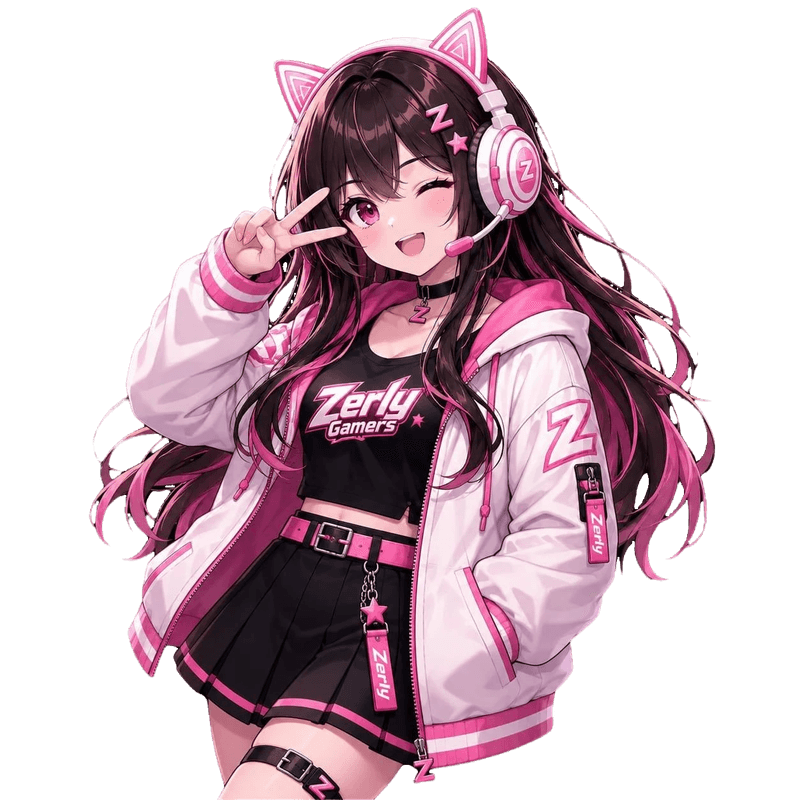
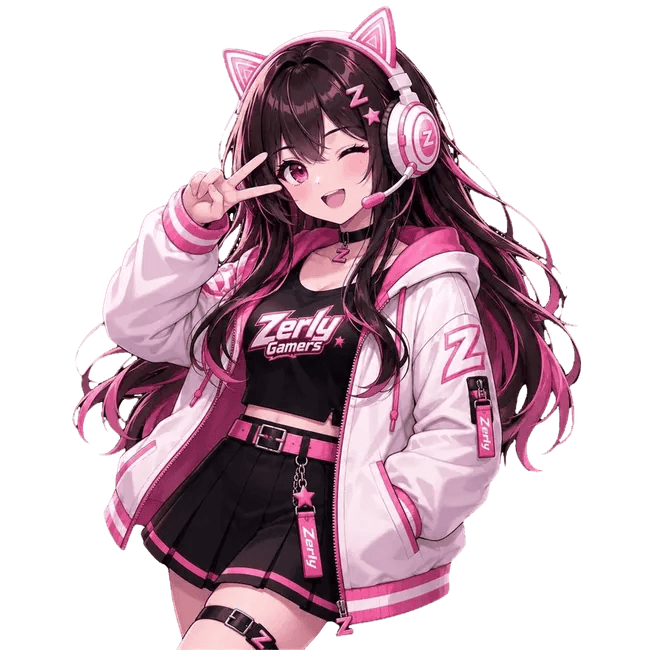
fix(a11y): enhance color contrast, landmarks, and aria attributes for WCAG AA compliance

diff --git a/components/HeroSection.tsx b/components/HeroSection.tsx
@@ -66,23 +66,23 @@ export const HeroSection: React.FC<HeroSectionProps> = ({
         <div className="lg:col-span-4 flex flex-col items-start gap-2.5 text-left z-20 order-1">
           {/* Badge Top Headline (Promo vs #1 Top Up) */}
           {isPromoActive ? (
-            <div className="inline-flex items-center gap-1.5 px-3 py-1 rounded-full bg-gradient-to-r from-pink-100 via-rose-100 to-amber-100 border border-pink-300/90 text-[#D81467] text-[10.5px] sm:text-[11px] font-black tracking-wider uppercase shadow-xs">
+            <div className="inline-flex items-center gap-1.5 px-3 py-1 rounded-full bg-gradient-to-r from-pink-100 via-rose-100 to-amber-100 border border-pink-300/90 text-[#BE185D] text-[10.5px] sm:text-[11px] font-black tracking-wider uppercase shadow-xs">
               <Flame aria-hidden="true" className="w-3.5 h-3.5 text-rose-500 fill-rose-500 animate-pulse" />
               <span>PROMO SPESIAL HARI INI</span>
             </div>
           ) : (
-            <div className="inline-flex items-center gap-1.5 px-3 py-1 rounded-full bg-pink-100/95 border border-pink-300/90 text-[#D81467] text-[10.5px] sm:text-[11px] font-extrabold tracking-wider uppercase shadow-xs">
-              <Sparkles aria-hidden="true" className="w-3.5 h-3.5 text-[#D81467]" />
+            <div className="inline-flex items-center gap-1.5 px-3 py-1 rounded-full bg-pink-100/95 border border-pink-300/90 text-[#BE185D] text-[10.5px] sm:text-[11px] font-extrabold tracking-wider uppercase shadow-xs">
+              <Sparkles aria-hidden="true" className="w-3.5 h-3.5 text-[#BE185D]" />
               <span>#1 TOP UP GAME TERPERCAYA</span>
             </div>
           )}
 
           {/* Main Typography Header */}
           <h1 className="text-2xl sm:text-3xl lg:text-[36px] font-black leading-[1.1] sm:leading-[1.08] tracking-tight uppercase">
-            <span className="block text-[#FF1D7E] drop-shadow-[0_2px_4px_rgba(255,29,126,0.18)]">
+            <span className="block text-[#BE185D] drop-shadow-[0_2px_4px_rgba(255,29,126,0.18)]">
               TOP UP GAME
             </span>
-            <span className="block text-[#FF2E88] drop-shadow-[0_2px_4px_rgba(255,46,136,0.18)]">
+            <span className="block text-[#D81467] drop-shadow-[0_2px_4px_rgba(255,46,136,0.18)]">
               AMAN, CEPAT &amp; TERPERCAYA
             </span>
           </h1>
@@ -91,8 +91,8 @@ export const HeroSection: React.FC<HeroSectionProps> = ({
           {isPromoActive && promoData ? (
             <div className="w-full max-w-sm p-3 rounded-2xl bg-gradient-to-r from-pink-50/95 via-rose-50/85 to-amber-50/70 border border-pink-200/90 shadow-xs space-y-1 animate-in fade-in">
               <div className="flex items-start gap-1.5">
-                <div className="w-5 h-5 rounded-md bg-rose-100 text-[#FF2E88] flex items-center justify-center shrink-0 mt-0.5 shadow-2xs">
-                  <Zap aria-hidden="true" className="w-3 h-3 fill-[#FF2E88]" />
+                <div className="w-5 h-5 rounded-md bg-rose-100 text-[#BE185D] flex items-center justify-center shrink-0 mt-0.5 shadow-2xs">
+                  <Zap aria-hidden="true" className="w-3 h-3 fill-[#BE185D]" />
                 </div>
                 <p className="text-[11.5px] sm:text-xs text-gray-800 font-medium leading-snug">
                   Dapatkan promo spesial{" "}
@@ -100,7 +100,7 @@ export const HeroSection: React.FC<HeroSectionProps> = ({
                     {promoData.robuxAmount.toLocaleString("id-ID")} Robux
                   </strong>{" "}
                   cuma{" "}
-                  <span className="font-black text-[#D81467] text-[13px]">
+                  <span className="font-black text-[#BE185D] text-[13px]">
                     Rp {promoData.discountPrice.toLocaleString("id-ID")}
                   </span>{" "}
                   {promoData.originalPrice && promoData.originalPrice > promoData.discountPrice && (
@@ -129,7 +129,7 @@ export const HeroSection: React.FC<HeroSectionProps> = ({
           ) : (
             <p className="text-xs sm:text-[13px] text-gray-700 font-medium max-w-sm leading-relaxed">
               Top up game favoritmu dengan harga terbaik, proses instan, dan 100% aman di{" "}
-              <span className="font-bold text-[#D81467]">Zerly Gamers</span>!
+              <span className="font-bold text-[#BE185D]">Zerly Gamers</span>!
             </p>
           )}
 
@@ -151,7 +151,7 @@ export const HeroSection: React.FC<HeroSectionProps> = ({
             <button
               type="button"
               onClick={onOpenAllPackages}
-              className="flex-1 sm:flex-initial inline-flex items-center justify-center gap-1.5 bg-white/95 hover:bg-pink-50/80 border-2 border-pink-300 text-[#D81467] font-extrabold text-xs px-4 py-2.5 rounded-full shadow-xs hover:scale-[1.02] active:scale-95 transition-all uppercase tracking-wider cursor-pointer"
+              className="flex-1 sm:flex-initial inline-flex items-center justify-center gap-1.5 bg-white/95 hover:bg-pink-50/80 border-2 border-pink-300 text-[#BE185D] font-extrabold text-xs px-4 py-2.5 rounded-full shadow-xs hover:scale-[1.02] active:scale-95 transition-all uppercase tracking-wider cursor-pointer"
             >
               <span>LIHAT SEMUA HARGA</span>
               <ChevronRight aria-hidden="true" className="w-4 h-4 stroke-[3]" />
@@ -262,7 +262,7 @@ export const HeroSection: React.FC<HeroSectionProps> = ({
             {/* Mascot Character Image */}
             <div className="absolute z-10 w-full flex items-center justify-center lg:justify-end pr-0 sm:pr-2 lg:pr-4 animate-float-slow -top-3 sm:-top-8 lg:-top-14 translate-y-3 sm:translate-y-8 lg:translate-y-14 lg:translate-x-12">
               <Image
-                src="/karakter.png"
+                src="/karakter.webp"
                 alt="Zerly Gamers Mascot Character"
                 width={540}
                 height={540}
@@ -275,12 +275,11 @@ export const HeroSection: React.FC<HeroSectionProps> = ({
             {/* Big Shield Logo Emblem */}
             <div className="absolute bottom-2 sm:bottom-4 left-3 sm:-left-4 lg:-left-16 z-20 pointer-events-none">
               <Image
-                src="/logo.png"
+                src="/logo.webp"
                 alt="Zerly Gamers Shield Emblem"
                 width={280}
                 height={110}
                 sizes="(max-width: 640px) 150px, (max-width: 1024px) 200px, 280px"
-                priority
                 className="object-contain drop-shadow-[0_12px_24px_rgba(255,42,133,0.4)] w-[150px] sm:w-[200px] lg:w-[280px] h-auto"
               />
             </div>

diff --git a/components/Navbar.tsx b/components/Navbar.tsx
@@ -21,7 +21,7 @@ export const Navbar: React.FC<NavbarProps> = ({
 }) => {
   const [mobileMenuOpen, setMobileMenuOpen] = useState(false);
   const [storeName, setStoreName] = useState(initialStoreName || "Zerly Gamers");
-  const [logoPath, setLogoPath] = useState(initialLogoPath || "/logo.png");
+  const [logoPath, setLogoPath] = useState(initialLogoPath || "/logo.webp");
   const [whatsappNumber, setWhatsappNumber] = useState(initialWaNumber || "6285624595886");
 
   useEffect(() => {
@@ -44,7 +44,7 @@ export const Navbar: React.FC<NavbarProps> = ({
         
         {/* 1. Left: Brand Logo & Dynamic Store Name from API */}
         <div className="flex items-center">
-          <a href="#" aria-label={`${storeName} Home`} className="flex items-center gap-2 sm:gap-2.5 transition-transform active:scale-95 group">
+          <a href="/" aria-label={`${storeName} - Beranda`} className="flex items-center gap-2 sm:gap-2.5 transition-transform active:scale-95 group">
             <Image
               src={logoPath}
               alt={storeName}
@@ -56,10 +56,10 @@ export const Navbar: React.FC<NavbarProps> = ({
             />
             {/* Dynamic Store Name Display */}
             <div className="flex flex-col text-left">
-              <span className="text-xs sm:text-sm lg:text-base font-black text-[#FF1D7E] leading-none tracking-wider uppercase">
+              <span className="text-xs sm:text-sm lg:text-base font-black text-[#BE185D] leading-none tracking-wider uppercase">
                 {mainWord}
               </span>
-              <span className="text-[8.5px] sm:text-[9.5px] font-black text-gray-600 tracking-widest leading-none mt-0.5 uppercase">
+              <span className="text-[8.5px] sm:text-[9.5px] font-black text-gray-700 tracking-widest leading-none mt-0.5 uppercase">
                 {subWord}
               </span>
             </div>
@@ -192,49 +192,51 @@ export const Navbar: React.FC<NavbarProps> = ({
           <a
             href="#beranda"
             onClick={() => setMobileMenuOpen(false)}
-            className="flex items-center gap-2.5 px-3 py-2.5 rounded-xl bg-pink-50 text-[#FF2E88] font-bold text-xs"
+            className="flex items-center gap-2.5 px-3 py-2.5 rounded-xl bg-pink-50 text-[#BE185D] font-bold text-xs"
           >
-            <HomeIcon className="w-4 h-4 text-[#FF2E88]" />
+            <HomeIcon aria-hidden="true" className="w-4 h-4 text-[#BE185D]" />
             <span>BERANDA</span>
           </a>
 
           <a
             href="#topup"
             onClick={() => setMobileMenuOpen(false)}
-            className="flex items-center gap-2.5 px-3 py-2.5 rounded-xl text-gray-800 hover:bg-pink-50 hover:text-[#FF2E88] font-bold text-xs"
+            className="flex items-center gap-2.5 px-3 py-2.5 rounded-xl text-gray-800 hover:bg-pink-50 hover:text-[#BE185D] font-bold text-xs"
           >
-            <Gamepad2 className="w-4 h-4 text-pink-500" />
+            <Gamepad2 aria-hidden="true" className="w-4 h-4 text-[#BE185D]" />
             <span>TOP UP ROBUX</span>
           </a>
 
           <button
+            type="button"
             onClick={() => {
               setMobileMenuOpen(false);
               onOpenCaraOrder();
             }}
-            className="flex items-center gap-2.5 px-3 py-2.5 rounded-xl text-gray-800 hover:bg-pink-50 hover:text-[#FF2E88] font-bold text-xs text-left cursor-pointer"
+            className="flex items-center gap-2.5 px-3 py-2.5 rounded-xl text-gray-800 hover:bg-pink-50 hover:text-[#BE185D] font-bold text-xs text-left cursor-pointer"
           >
-            <BookOpen className="w-4 h-4 text-pink-500" />
+            <BookOpen aria-hidden="true" className="w-4 h-4 text-[#BE185D]" />
             <span>CARA ORDER</span>
           </button>
 
           <a
             href="#testimoni"
             onClick={() => setMobileMenuOpen(false)}
-            className="flex items-center gap-2.5 px-3 py-2.5 rounded-xl text-gray-800 hover:bg-pink-50 hover:text-[#FF2E88] font-bold text-xs"
+            className="flex items-center gap-2.5 px-3 py-2.5 rounded-xl text-gray-800 hover:bg-pink-50 hover:text-[#BE185D] font-bold text-xs"
           >
-            <MessageSquare className="w-4 h-4 text-pink-500" />
+            <MessageSquare aria-hidden="true" className="w-4 h-4 text-[#BE185D]" />
             <span>TESTIMONI</span>
           </a>
 
           <button
+            type="button"
             onClick={() => {
               setMobileMenuOpen(false);
               onOpenFaq();
             }}
-            className="flex items-center gap-2.5 px-3 py-2.5 rounded-xl text-gray-800 hover:bg-pink-50 hover:text-[#FF2E88] font-bold text-xs text-left cursor-pointer"
+            className="flex items-center gap-2.5 px-3 py-2.5 rounded-xl text-gray-800 hover:bg-pink-50 hover:text-[#BE185D] font-bold text-xs text-left cursor-pointer"
           >
-            <HelpCircle className="w-4 h-4 text-pink-500" />
+            <HelpCircle aria-hidden="true" className="w-4 h-4 text-[#BE185D]" />
             <span>FAQ</span>
           </button>
 
@@ -243,9 +245,9 @@ export const Navbar: React.FC<NavbarProps> = ({
             target="_blank"
             rel="noopener noreferrer"
             onClick={() => setMobileMenuOpen(false)}
-            className="flex items-center gap-2.5 px-3 py-2.5 rounded-xl text-gray-800 hover:bg-pink-50 hover:text-[#FF2E88] font-bold text-xs"
+            className="flex items-center gap-2.5 px-3 py-2.5 rounded-xl text-gray-800 hover:bg-pink-50 hover:text-[#BE185D] font-bold text-xs"
           >
-            <PhoneCall className="w-4 h-4 text-emerald-500" />
+            <PhoneCall aria-hidden="true" className="w-4 h-4 text-emerald-600" />
             <span>KONTAK WHATSAPP</span>
           </a>
         </div>

diff --git a/components/TopUpRobux.tsx b/components/TopUpRobux.tsx
@@ -36,10 +36,10 @@ export const TopUpRobux: React.FC<TopUpRobuxProps> = ({
     <div className="lg:col-span-8 bg-white/95 backdrop-blur-md rounded-3xl border-2 border-pink-200/90 p-4 sm:p-5 shadow-sm flex flex-col gap-4">
       {/* 1. Header with Hexagon Robux Gaming Icon */}
       <div className="flex items-center gap-2.5">
-        <div className="w-7 h-7 rounded-xl bg-pink-100 text-[#FF2E88] border border-pink-300 flex items-center justify-center shadow-xs">
+        <div className="w-7 h-7 rounded-xl bg-pink-100 text-[#BE185D] border border-pink-300 flex items-center justify-center shadow-xs">
           <svg
             aria-hidden="true"
-            className="w-4 h-4 text-[#FF2E88] stroke-[2.5]"
+            className="w-4 h-4 text-[#BE185D] stroke-[2.5]"
             viewBox="0 0 24 24"
             fill="none"
             stroke="currentColor"
@@ -50,7 +50,7 @@ export const TopUpRobux: React.FC<TopUpRobuxProps> = ({
             <circle cx="12" cy="12" r="3" />
           </svg>
         </div>
-        <h2 className="text-base sm:text-lg font-black uppercase tracking-wide text-[#FF1D7E]">
+        <h2 className="text-base sm:text-lg font-black uppercase tracking-wide text-[#BE185D]">
           TOP UP ROBUX
         </h2>
       </div>
@@ -92,7 +92,7 @@ export const TopUpRobux: React.FC<TopUpRobuxProps> = ({
               <div className="text-center pt-1">
                 <span
                   className={`text-[10.5px] font-black uppercase tracking-wider block ${
-                    isBestSeller ? "text-[#D81467]" : "text-gray-800"
+                    isBestSeller ? "text-[#BE185D]" : "text-gray-800"
                   }`}
                 >
                   ROBUX
@@ -109,6 +109,7 @@ export const TopUpRobux: React.FC<TopUpRobuxProps> = ({
                   alt={`Koin Robux ${pkg.amount}`}
                   width={46}
                   height={46}
+                  sizes="46px"
                   className={`object-contain transition-transform duration-300 drop-shadow-md ${
                     isSelected ? "scale-110" : "hover:scale-105"
                   }`}
@@ -135,7 +136,7 @@ export const TopUpRobux: React.FC<TopUpRobuxProps> = ({
         <button
           type="button"
           onClick={onOpenAllPackages}
-          className="inline-flex items-center gap-1.5 px-6 py-2 rounded-full border-2 border-pink-300 bg-white hover:bg-pink-50 text-[#D81467] font-black text-xs uppercase tracking-wider shadow-2xs hover:scale-105 active:scale-95 transition-all cursor-pointer"
+          className="inline-flex items-center gap-1.5 px-6 py-2 rounded-full border-2 border-pink-300 bg-white hover:bg-pink-50 text-[#BE185D] font-black text-xs uppercase tracking-wider shadow-2xs hover:scale-105 active:scale-95 transition-all cursor-pointer"
         >
           <span>LIHAT SEMUA PAKET</span>
           <ChevronRight aria-hidden="true" className="w-4 h-4 stroke-[3]" />

diff --git a/components/Testimonials.tsx b/components/Testimonials.tsx
@@ -58,7 +58,7 @@ export const Testimonials: React.FC<TestimonialsProps> = ({
     >
       {/* Header */}
       <div className="flex items-center justify-between text-left">
-        <h3 className="text-xs sm:text-sm font-black uppercase tracking-wide text-[#FF1D7E]">
+        <h3 className="text-xs sm:text-sm font-black uppercase tracking-wide text-[#BE185D]">
           APA KATA GAMERS?
         </h3>
       </div>
@@ -70,7 +70,7 @@ export const Testimonials: React.FC<TestimonialsProps> = ({
           type="button"
           onClick={onPrev}
           aria-label="Ulasan Sebelumnya"
-          className="w-8 h-8 rounded-full bg-white border border-pink-200 text-pink-600 flex items-center justify-center hover:bg-pink-100 transition-colors shrink-0 cursor-pointer shadow-2xs"
+          className="w-8 h-8 rounded-full bg-white border border-pink-200 text-[#BE185D] flex items-center justify-center hover:bg-pink-100 transition-colors shrink-0 cursor-pointer shadow-2xs"
         >
           <ChevronLeft aria-hidden="true" className="w-4 h-4" />
         </button>
@@ -107,8 +107,8 @@ export const Testimonials: React.FC<TestimonialsProps> = ({
             {/* Admin Reply (Compact, Clean & Layout-Safe) */}
             {adminReplyText && (
               <div className="mt-1.5 pt-1.5 border-t border-pink-200/60 flex items-start gap-1 text-[10.5px]">
-                <div className="flex items-center gap-1 text-[#FF1D7E] font-black shrink-0 text-[10px] bg-pink-100/90 border border-pink-200 px-1.5 py-0.2 rounded-md">
-                  <ShieldCheck aria-hidden="true" className="w-3 h-3 text-[#FF2E88]" />
+                <div className="flex items-center gap-1 text-[#BE185D] font-black shrink-0 text-[10px] bg-pink-100/90 border border-pink-200 px-1.5 py-0.2 rounded-md">
+                  <ShieldCheck aria-hidden="true" className="w-3 h-3 text-[#BE185D]" />
                   <span>Admin:</span>
                 </div>
                 <p className="text-gray-800 italic font-medium leading-tight truncate">
@@ -124,7 +124,7 @@ export const Testimonials: React.FC<TestimonialsProps> = ({
           type="button"
           onClick={onNext}
           aria-label="Ulasan Berikutnya"
-          className="w-8 h-8 rounded-full bg-white border border-pink-200 text-pink-600 flex items-center justify-center hover:bg-pink-100 transition-colors shrink-0 cursor-pointer shadow-2xs"
+          className="w-8 h-8 rounded-full bg-white border border-pink-200 text-[#BE185D] flex items-center justify-center hover:bg-pink-100 transition-colors shrink-0 cursor-pointer shadow-2xs"
         >
           <ChevronRight aria-hidden="true" className="w-4 h-4" />
         </button>

diff --git a/components/FormOrder.tsx b/components/FormOrder.tsx
@@ -172,7 +172,7 @@ export const FormOrder: React.FC<FormOrderProps> = ({
         <div className="flex flex-col gap-1.5 text-left">
           <span className="text-[11px] font-black text-gray-800 uppercase tracking-wider flex items-center justify-between">
             <span>2. NOMINAL ROBUX</span>
-            <span className="text-[10px] text-[#D81467] font-bold">Pilih di katalog sebelah</span>
+            <span className="text-[10px] text-[#BE185D] font-bold">Pilih di katalog sebelah</span>
           </span>
           
           <div className="w-full bg-pink-50/70 border-2 border-pink-200 rounded-2xl px-3.5 py-2.5 flex items-center justify-between shadow-2xs">
@@ -190,7 +190,7 @@ export const FormOrder: React.FC<FormOrderProps> = ({
                 {selectedPackage.amount} Robux
               </span>
             </div>
-            <span className="text-xs sm:text-sm font-black text-[#FF1D7E] bg-white px-2.5 py-1 rounded-xl border border-pink-200 shadow-2xs">
+            <span className="text-xs sm:text-sm font-black text-[#BE185D] bg-white px-2.5 py-1 rounded-xl border border-pink-200 shadow-2xs">
               {selectedPackage.priceFormatted}
             </span>
           </div>
@@ -210,12 +210,12 @@ export const FormOrder: React.FC<FormOrderProps> = ({
               onClick={() => onOrderMethodChange("website")}
               className={`p-2.5 rounded-2xl border-2 flex flex-col items-center justify-center gap-1 transition-all cursor-pointer select-none focus:outline-none focus:ring-2 focus:ring-[#FF2E88] ${
                 orderMethod === "website"
-                  ? "border-[#FF2E88] bg-pink-50/80 text-[#D81467] shadow-xs scale-[1.02]"
+                  ? "border-[#FF2E88] bg-pink-50/80 text-[#BE185D] shadow-xs scale-[1.02]"
                   : "border-gray-200 bg-white text-gray-700 hover:border-pink-200 hover:bg-pink-50/30"
               }`}
             >
               <div className="flex items-center gap-1.5">
-                <Globe aria-hidden="true" className={`w-4 h-4 ${orderMethod === "website" ? "text-[#D81467]" : "text-gray-600"}`} />
+                <Globe aria-hidden="true" className={`w-4 h-4 ${orderMethod === "website" ? "text-[#BE185D]" : "text-gray-600"}`} />
                 <span className="text-xs font-black uppercase">Via Website</span>
               </div>
               <span className="text-[9.5px] font-semibold text-gray-600">QRIS / E-Wallet</span>

diff --git a/components/WhyChooseUs.tsx b/components/WhyChooseUs.tsx
@@ -8,10 +8,10 @@ export const WhyChooseUs: React.FC = () => {
     <div className="lg:col-span-7 bg-white/95 backdrop-blur-md rounded-3xl border-2 border-pink-200/90 p-4 sm:p-5 shadow-sm flex flex-col gap-3.5">
       {/* Header with matching hexagon icon */}
       <div className="flex items-center gap-2.5 text-left">
-        <div className="w-7 h-7 rounded-xl bg-pink-100 text-[#FF2E88] border border-pink-300 flex items-center justify-center shadow-xs">
+        <div className="w-7 h-7 rounded-xl bg-pink-100 text-[#BE185D] border border-pink-300 flex items-center justify-center shadow-xs">
           <svg
             aria-hidden="true"
-            className="w-4 h-4 text-[#FF2E88] stroke-[2.5]"
+            className="w-4 h-4 text-[#BE185D] stroke-[2.5]"
             viewBox="0 0 24 24"
             fill="none"
             stroke="currentColor"
@@ -22,7 +22,7 @@ export const WhyChooseUs: React.FC = () => {
             <circle cx="12" cy="12" r="3" />
           </svg>
         </div>
-        <h3 className="text-xs sm:text-sm md:text-base font-black uppercase tracking-wide text-[#FF1D7E]">
+        <h3 className="text-xs sm:text-sm md:text-base font-black uppercase tracking-wide text-[#BE185D]">
           KENAPA PILIH ZERLY GAMERS?
         </h3>
       </div>

diff --git a/components/PaymentFooter.tsx b/components/PaymentFooter.tsx
@@ -16,7 +16,7 @@ export const PaymentFooter: React.FC<PaymentFooterProps> = ({
       <footer className="w-full bg-white/95 backdrop-blur-md rounded-3xl border-2 border-pink-200/90 p-4 sm:p-5 shadow-sm flex flex-col md:flex-row items-center justify-between gap-5">
         {/* Left: METODE PEMBAYARAN with Large Direct Official Logos (No tiny cards) */}
         <div className="flex flex-wrap items-center gap-3 sm:gap-4">
-          <span className="text-xs font-black text-[#FF1D7E] uppercase tracking-wider shrink-0 mr-1">
+          <span className="text-xs font-black text-[#BE185D] uppercase tracking-wider shrink-0 mr-1">
             METODE PEMBAYARAN
           </span>
 

diff --git a/app/page.tsx b/app/page.tsx
@@ -52,7 +52,7 @@ export default function ZerlyGamersPage() {
   const [testimonials, setTestimonials] = useState<Testimonial[]>(INITIAL_TESTIMONIALS);
   const [whatsappNumber, setWhatsappNumber] = useState("6285624595886");
   const [storeName, setStoreName] = useState("Zerly Gamers");
-  const [logoPath, setLogoPath] = useState("/logo.png");
+  const [logoPath, setLogoPath] = useState("/logo.webp");
   const [qrisImagePath, setQrisImagePath] = useState("/qris.jpeg");
 
   // Selected Order State
